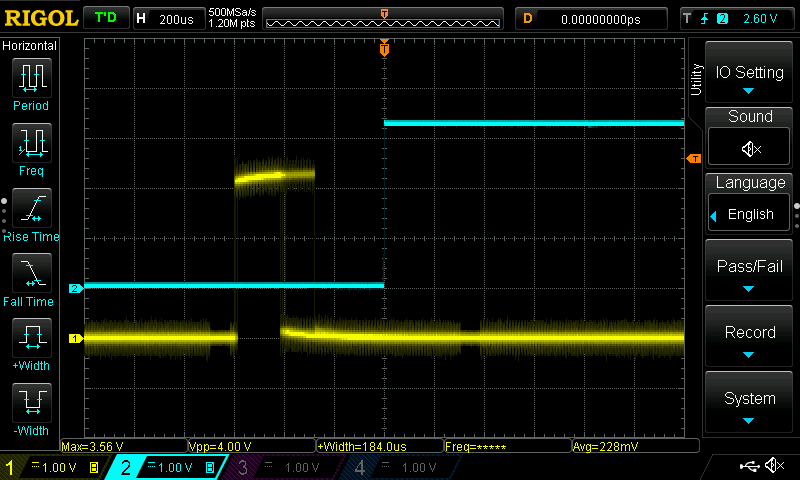
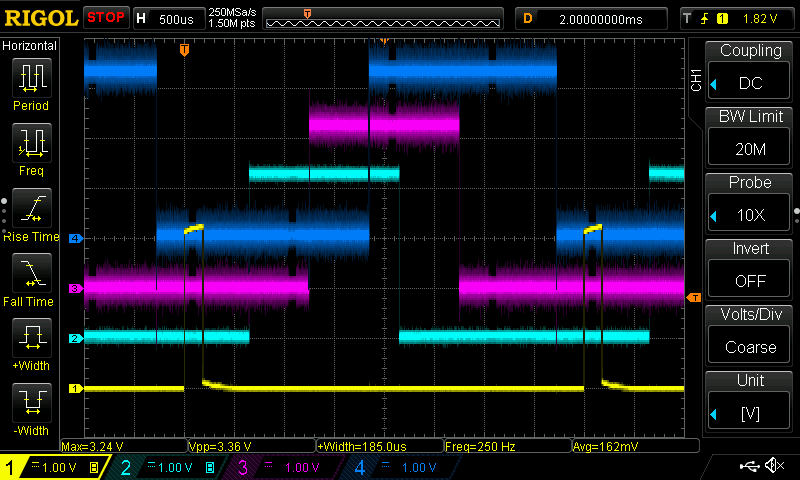
skew600us

diff --git a/main/servo.c b/main/servo.c
@@ -63,7 +63,7 @@ static ledc_channel_config_t svch_mot = {
     .intr_type = LEDC_INTR_DISABLE,
     .gpio_num = GPIO_DRV,
     .duty = SERVO_NEUTRAL_DUTY,
-    .hpoint = USEC2LEDCDUTY(DELAYTIME_RISING + 1000)};
+    .hpoint = USEC2LEDCDUTY(DELAYTIME_RISING + 600)};
 
 static ledc_channel_config_t svch_str = {
     .speed_mode = LEDC_LOW_SPEED_MODE,
@@ -81,7 +81,7 @@ static ledc_channel_config_t svch_ex1 = {
     .intr_type = LEDC_INTR_DISABLE,
     .gpio_num = GPIO_EX1,
     .duty = SERVO_NEUTRAL_DUTY,
-    .hpoint = USEC2LEDCDUTY(DELAYTIME_RISING + 2000)};
+    .hpoint = USEC2LEDCDUTY(DELAYTIME_RISING + 1200)};
 
 ///////////////////////////////////////////////////////////////////
 /// in task web-server ///
